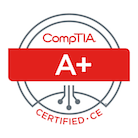
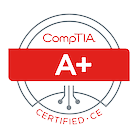
css

Changed region(s): [[0.058, 0.087, 0.9565, 0.9275], [0.3768, 0.4058, 0.6667, 0.5507]]

diff --git a/resources/views/welcome.blade.php b/resources/views/welcome.blade.php
@@ -1,6 +1,7 @@
 @extends ('layout')
 
 @section ('content')
+    <div style="text-align: center">
     <h1>Miss Drew Baxter</h1>
     <img src="{{ url('images/drew.jpg') }}" alt="Drew">
     <h2>🎓 Education</h2>
@@ -16,8 +17,9 @@
         <b>▸</b> Sales Order Processor for 10 Years 3 Months at Redu Group
     </p>
     <h2>🏆 Certifications</h2><br/>
-    <a href="https://www.credly.com/badges/99749170-3cdd-4b4c-93bd-7af85fd521d6/public_url" target="_blank"><img src="{{ url('images/comptia-a-ce-certification.png') }}" alt="A+"></a>
-    <a href="https://www.credly.com/badges/434150f6-a0ec-405b-8edf-38a9fe15dae4/public_url" target="_blank"><img src="{{ url('images/comptia-security-ce-certification.png') }}" alt="Security+"></a>
-    <a href="https://www.credly.com/badges/15a6a67e-f6ed-497a-8f6a-9b2dc799f522/public_url" target="_blank"><img src="{{ url('images/itil-4-foundation-cpd.png') }}" alt="ITIL 4 Foundation"></a>
-    <a href="https://www.credly.com/badges/48b552ac-2833-4210-8eb3-f0e318729fe4/public_urll" target="_blank"><img src="{{ url('images/google-it-support-certificate.png') }}" alt="Google IT Support"></a>
+    <a href="https://www.credly.com/badges/99749170-3cdd-4b4c-93bd-7af85fd521d6/public_url" target="_blank"><img class="cert" src="{{ url('images/comptia-a-ce-certification.png') }}" alt="A+"></a>
+    <a href="https://www.credly.com/badges/434150f6-a0ec-405b-8edf-38a9fe15dae4/public_url" target="_blank"><img class="cert"  src="{{ url('images/comptia-security-ce-certification.png') }}" alt="Security+"></a>
+    <a href="https://www.credly.com/badges/15a6a67e-f6ed-497a-8f6a-9b2dc799f522/public_url" target="_blank"><img class="cert"  src="{{ url('images/itil-4-foundation-cpd.png') }}" alt="ITIL 4 Foundation"></a>
+    <a href="https://www.credly.com/badges/48b552ac-2833-4210-8eb3-f0e318729fe4/public_urll" target="_blank"><img class="cert"  src="{{ url('images/google-it-support-certificate.png') }}" alt="Google IT Support"></a>
+    </div>
 @endsection

diff --git a/resources/views/layout.blade.php b/resources/views/layout.blade.php
@@ -18,14 +18,15 @@
         @yield ('content')
     </div>
     <div class="right">
-        <a href="/">Home</a> <br/><br/>
-        <a href="/newcastle">Maths at Newcastle</a><br /><br/>
-        <a href="/york">CompSci at York</a><br /><br />
-        <a href="/coe">Centre of Excellence</a><br /><br/>
-        <a href="https://www.linkedin.com/in/drew-baxter-3a0a8118a/" target="_blank">LinkedIn</a><br /><br/>
-        <a href="https://github.com/missdrewbaxter" target="_blank">GitHub</a><br /><br/>
-        <a href="https://www.facebook.com/drew.baxter.5209/" target="_blank">Facebook</a>
+        <a href="/"><button class="button">Home</button></a> <br/>
+        <a href="/newcastle"><button class="button">Maths at Newcastle</button></a><br />
+        <a href="/york"><button class="button">CompSci at York</button></a><br />
+        <a href="/coe"><button class="button">Centre of Excellence</button></a><br />
+        <a href="https://www.linkedin.com/in/drew-baxter-3a0a8118a/" target="_blank"><button class="button">LinkedIn</button></a><br />
+        <a href="https://github.com/missdrewbaxter" target="_blank"><button class="button">GitHub</button></a><br />
+        <a href="https://www.facebook.com/drew.baxter.5209/" target="_blank"><button class="button">Facebook</button></a>
     </div>
 </div>
+<br/>
 </body>
 </html>

diff --git a/resources/views/newcastle.blade.php b/resources/views/newcastle.blade.php
@@ -4,7 +4,7 @@
     <h1>Mathematics at Newcastle University</h1>
     <p>
     <img src="/images/drewbaxter.jpg" alt="Drew at Graduation"><br/>
-        In 2013 to 2016 I studied BSc Mathematics at Newcastle University, graduating with a First-class Honors degree. I am very proud of my degree as I achieved it whilst commuting 3 hours a day by bus to campus and working part-time at the weekends. I have since passed my driving test and have got a lovely blue Hyundai i10!
+        In 2013 to 2016 I studied BSc Mathematics at Newcastle University, graduating with a First-class Honors degree. I am proud of my degree as I achieved it whilst commuting 3 hours a day by bus to campus and working part-time at the weekends. I have since passed my driving test and now drive a blue Hyundai i10.
     </p>
     <p>
         In my second year, I was lucky enough to earn a research scholarship to work along side a lecturer to study the magnetic fields in neutron stars.</p>

diff --git a/resources/views/coe.blade.php b/resources/views/coe.blade.php
@@ -3,7 +3,7 @@
 @section ('content')
     <h1>Centre of Excellence Certificates</h1>
     <p>In my spare time, I enjoy doing courses through <a href="https://www.centreofexcellence.com/" target="_blank">Centre of Excellence</a>.</p>
-    <img src="images/egyptology.jpg" alt="Egyptology" width="263" height="374">
-    <img src="images/criminology.jpg" alt="Criminology"width="263" height="374">
-    <img src="images/proofreading.jpg" alt="Proof Reading" width="263" height="374">
+    <img class="cert" s src="images/egyptology.jpg" alt="Egyptology" width="263" height="374">
+    <img class="cert" s src="images/criminology.jpg" alt="Criminology"width="263" height="374">
+    <img class="cert" s src="images/proofreading.jpg" alt="Proof Reading" width="263" height="374">
 @endsection

diff --git a/resources/views/york.blade.php b/resources/views/york.blade.php
@@ -6,8 +6,7 @@
         I am currently studying for a MSc Computer Science with Cyber Security at the University of York. This is a part-time, online degree that I am doing whilst I work full-time.
     </p>
 
-    <h3>Some of My Work</h3>
-    <p><b>Module 1 - Algorithms and Data Structures</b><br />
+    <h2>Module 1 - Algorithms and Data Structures</h2><p>
         I made a simple shopping list program in Java; the below GIF demonstrates the program as well as some error handling. The source code is available on my <a href="https://github.com/missdrewbaxter/ShoppingList" target="_blank">GitHub</a>. <br/><br/>
         <img src="/images/shopping.gif" alt="Drew at Graduation" width="75%" height="75%"></p>
 @endsection
